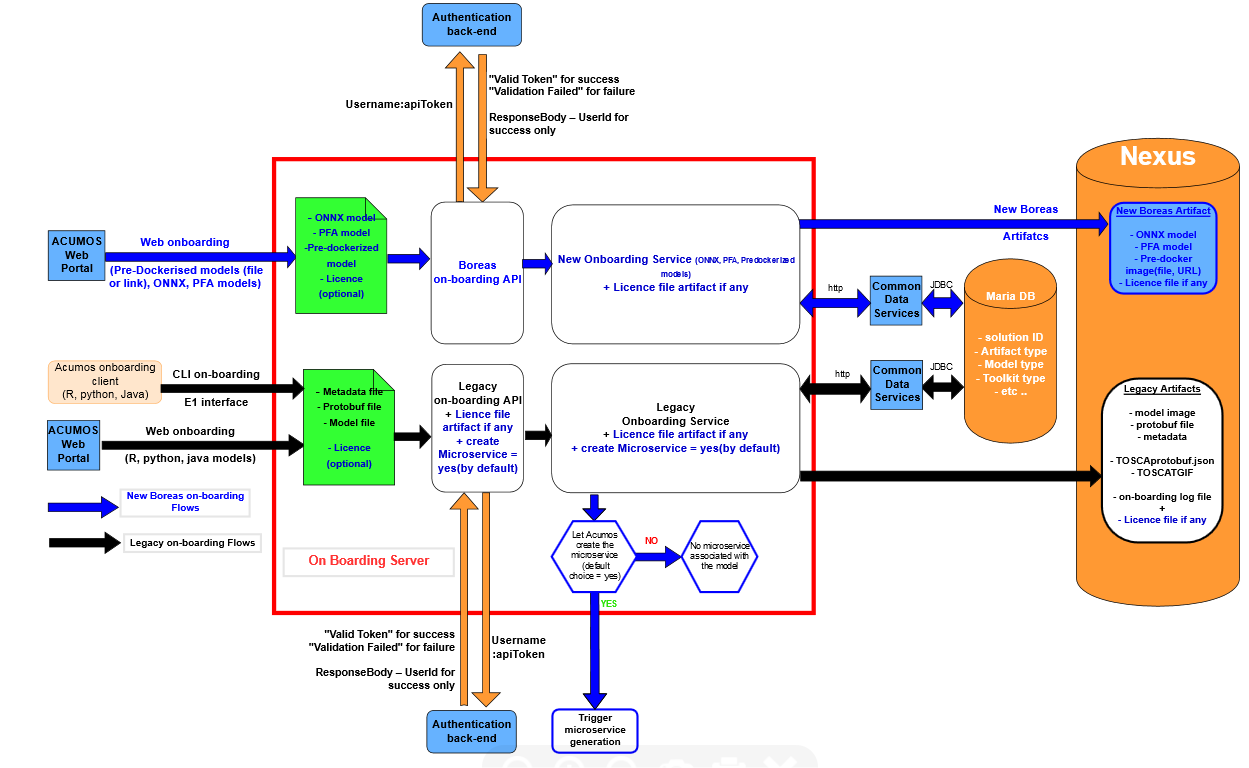
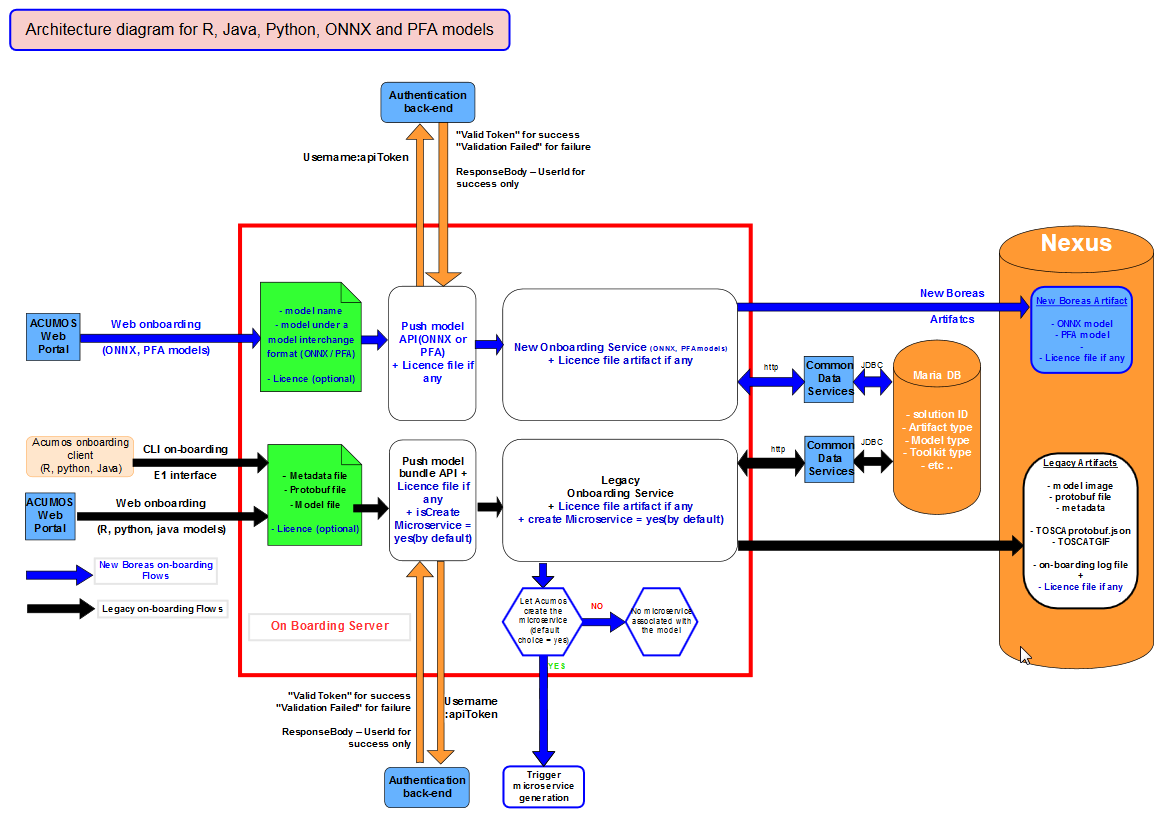
arch diagramm update
Issu-Id: ACUMOS-2861

Changed region(s): [[0.0, 0.0, 1.0, 1.0]]

diff --git a/docs/developer-guide.rst b/docs/developer-guide.rst
@@ -118,7 +118,7 @@ models.
 
 |image1ter|
 
-For model Dockerized and store in repo outside Acumos (like for example Docker hub) you can save the
+For model Dockerized and stored in repo outside Acumos (like for example Docker hub) you can save the
 model URI in Acumos. You can also dockerized your models by yourself and on-board them in Acumos.
 
 **5: Onboarding Low Level Design for R, Java, Python, ONNX and PFA models**
@@ -230,7 +230,6 @@ or by ssh git clone ssh://<GERRIT_USER_NAME>@gerrit.acumos.org:29418/on-boarding
 
 2. After cloning import this project in your recommended IDE like STS.
 
-
 3. Take the maven update so that you can download all the required dependencies for the Onboarding
 Project.
 
@@ -319,7 +318,7 @@ Request to Onboarding Onboarding will use the Header Info to get the Username + 
 
 
 
-**Push model bundle API** : This API is used for upload the model bundle in Acumos
+**Push model bundle API** : This API is used to on-board the model bundle in Acumos for R, Python or Java models by WEB or CLI on-boarding
 
 - URL=http://hostname:ACUMOS_ONBOARDING_PORT/onboarding-app/v2/models
 
@@ -347,7 +346,7 @@ Request to Onboarding Onboarding will use the Header Info to get the Username + 
 - Description : Upload the model bundle on the on-boarding server.
 
 
-**Push model API** : This API is used by web onboarding only to upload ONNX and PFA models in Acumos
+**Push model API** : This API is used by web onboarding only to upload ONNX/PFA or Dockerized models in Acumos
 
 - URL = http://hostname:ACUMOS_ONBOARDING_PORT/onboarding-app/v2/advancedModel
 
@@ -375,7 +374,7 @@ Request to Onboarding Onboarding will use the Header Info to get the Username + 
 
 
 .. |image0_old| image:: ./media/DesignArchitecture.png
-   :width: 5.64583in
+   :width: 5.64583inlicense (optional parameter - license.json associated with model, Parameter Type - formdata)
    :height: 5.55208in
 .. |image1| image:: ./media/HighLevelFlow.png
    :width: 7.26806in
